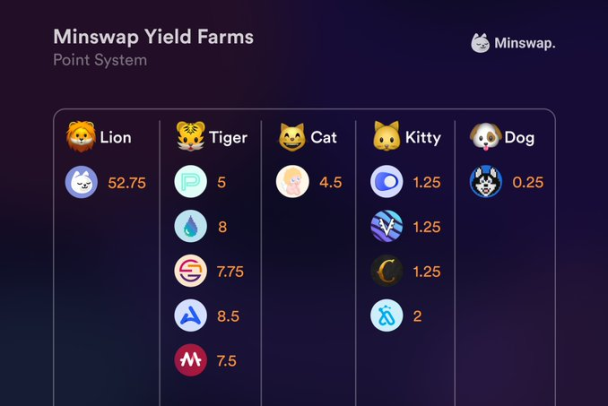
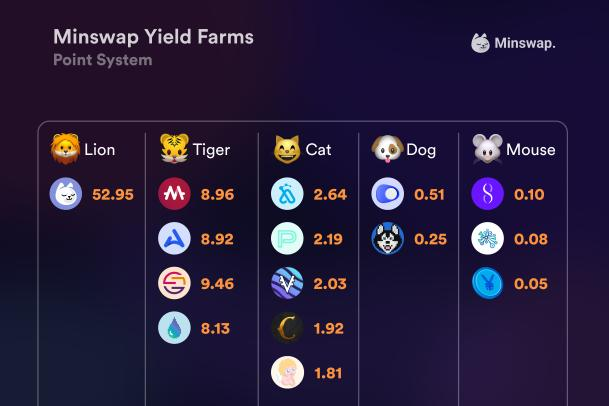
GitBook: [#63] No subject

diff --git a/yield-farming/farms-allocation-and-governance/historical-min-farm-rebalances.md b/yield-farming/farms-allocation-and-governance/historical-min-farm-rebalances.md
@@ -19,3 +19,7 @@
 **4th Farm Rebalance:** on the 21st of June 2022 new Farm Allocations were the following:
 
 ![](<../../.gitbook/assets/image (3).png>)
+
+**5th Farm Rebalance:** on the 7th of July 2022 new Farm Allocations were the following:
+
+![](<../../.gitbook/assets/image (2).png>)
